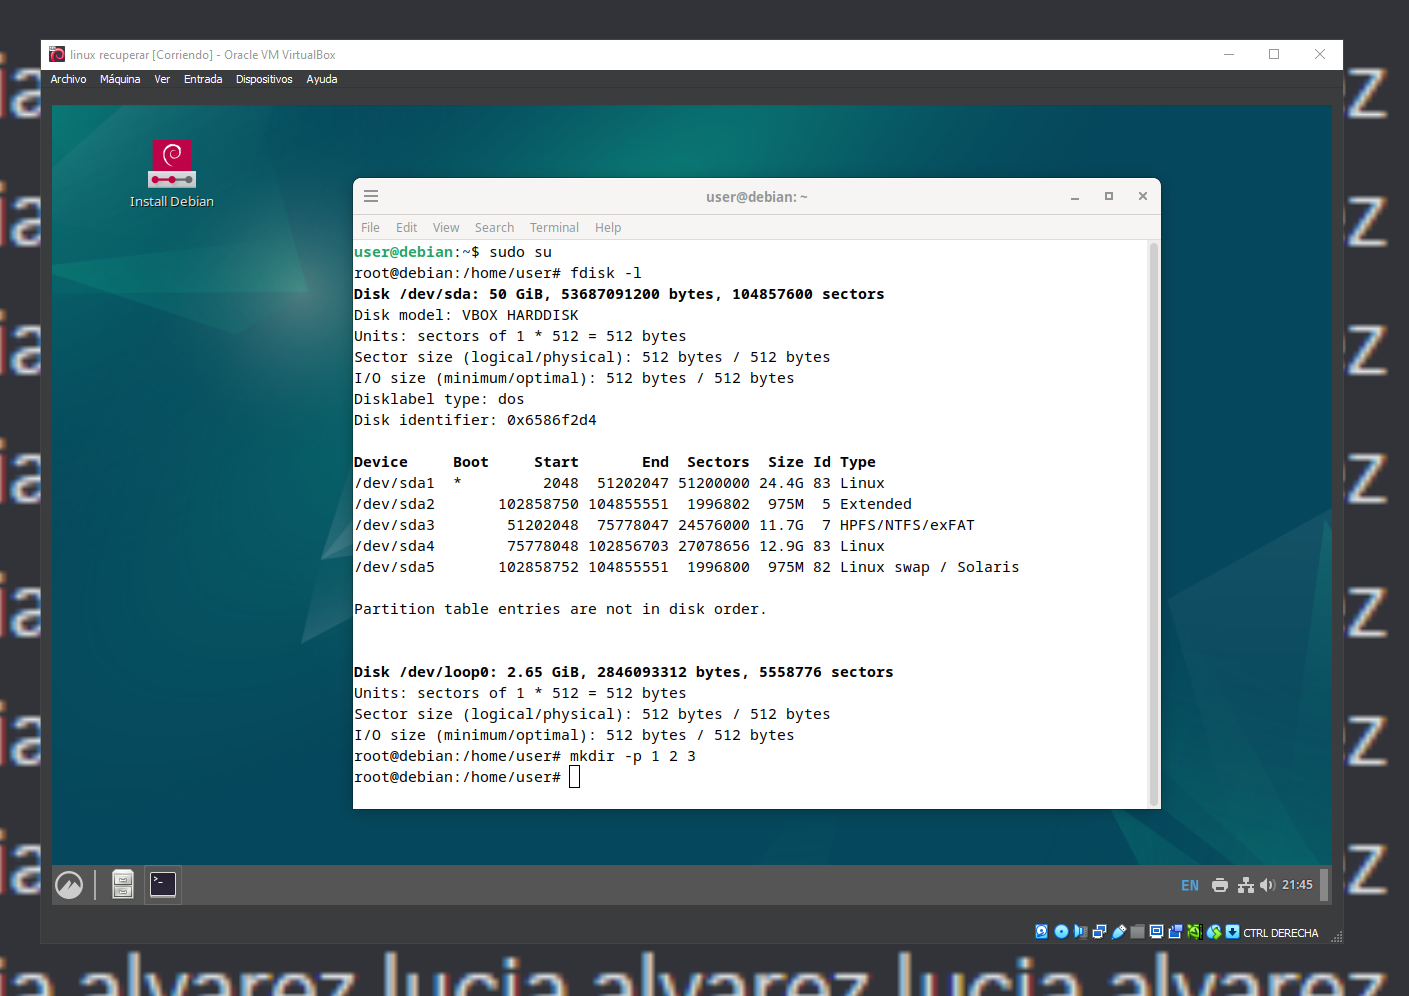
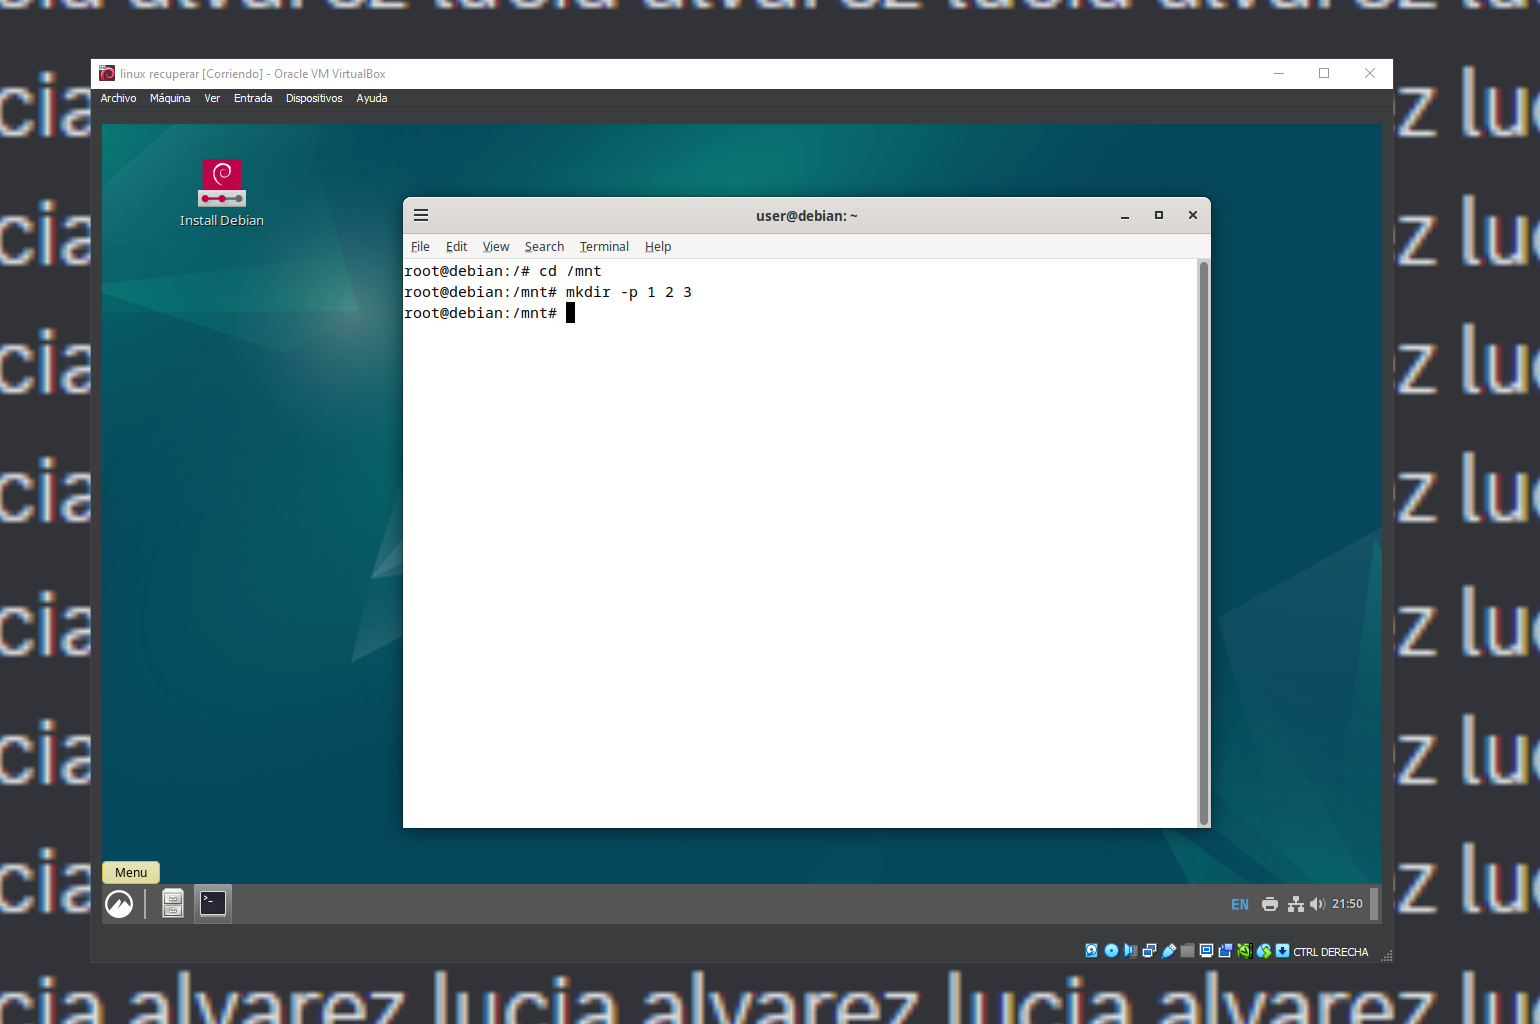
test

Changed region(s): [[0.0, 0.0, 1.0, 1.0], [0.687, 0.5602, 0.7182, 0.5914]]

diff --git a/src/content/blog/recuperar-informacio-linux.md b/src/content/blog/recuperar-informacio-linux.md
@@ -37,3 +37,71 @@ I ara mirem les particions que tenim.
 Com podem veure la partició que ens interesa serà la `sda1` i `sda4`, la `sd3` es de Windows perquè utilitza el sistema de fitxers `ntfs`. Ara crearem unes tres carpetes, una per cada partició.
 
 ![Linux](/recuperar-info-l/7.png)
+
+Ara les muntarem.
+
+![Linux](/recuperar-info-l/8.png)
+
+I com podem veure podem accedir a les dades.
+
+![Linux](/recuperar-info-l/9.png)
+
+Primer de tot, possarem un USB per passar les dades.
+
+![Linux](/recuperar-info-l/10.png)
+
+Una vegada possat buscarem els arxius que ens a demanat el client amb la comanda `find`.
+
+```bash
+find . -name "arxiu"
+```
+
+![Linux](/recuperar-info-l/11.png)
+
+En aquest cas el client ens a demanat un arxiu que nomes sabem que comença per "Christ\_" així que buscarem amb la comanda `find`.
+
+```bash
+find . -name "Christ_*"
+```
+
+Ara el copiarem al USB.
+
+![Linux](/recuperar-info-l/12.png)
+
+I ja tindrem un arxiu recuperat, com podem veure es guarda al USB.
+
+![Linux](/recuperar-info-l/13.png)
+
+Ara tindrem que fer el mateix amb la resta d'arxius que ens a demanat el client.
+
+![Linux](/recuperar-info-l/15.png)
+
+![Linux](/recuperar-info-l/16.png)
+
+![Linux](/recuperar-info-l/17.png)
+
+![Linux](/recuperar-info-l/18.png)
+
+![Linux](/recuperar-info-l/19.png)
+
+![Linux](/recuperar-info-l/20.png)
+
+![Linux](/recuperar-info-l/22.png)
+
+Vale ara tenim un cas diferent perquè n'hi ha arxius que estàn ocults, per això farem servir -type f amb un punt al principi del fitxer.
+
+```bash
+find . -type f -name ".*"
+```
+
+![Linux](/recuperar-info-l/21.png)
+
+![Linux](/recuperar-info-l/23.png)
+
+I ja tindrem tots els arxius recuperats. Treiem el USB.
+
+![Linux](/recuperar-info-l/24.png)
+
+Ja tenim totes les dades recuperades.
+
+![Linux](/recuperar-info-l/25.png)
